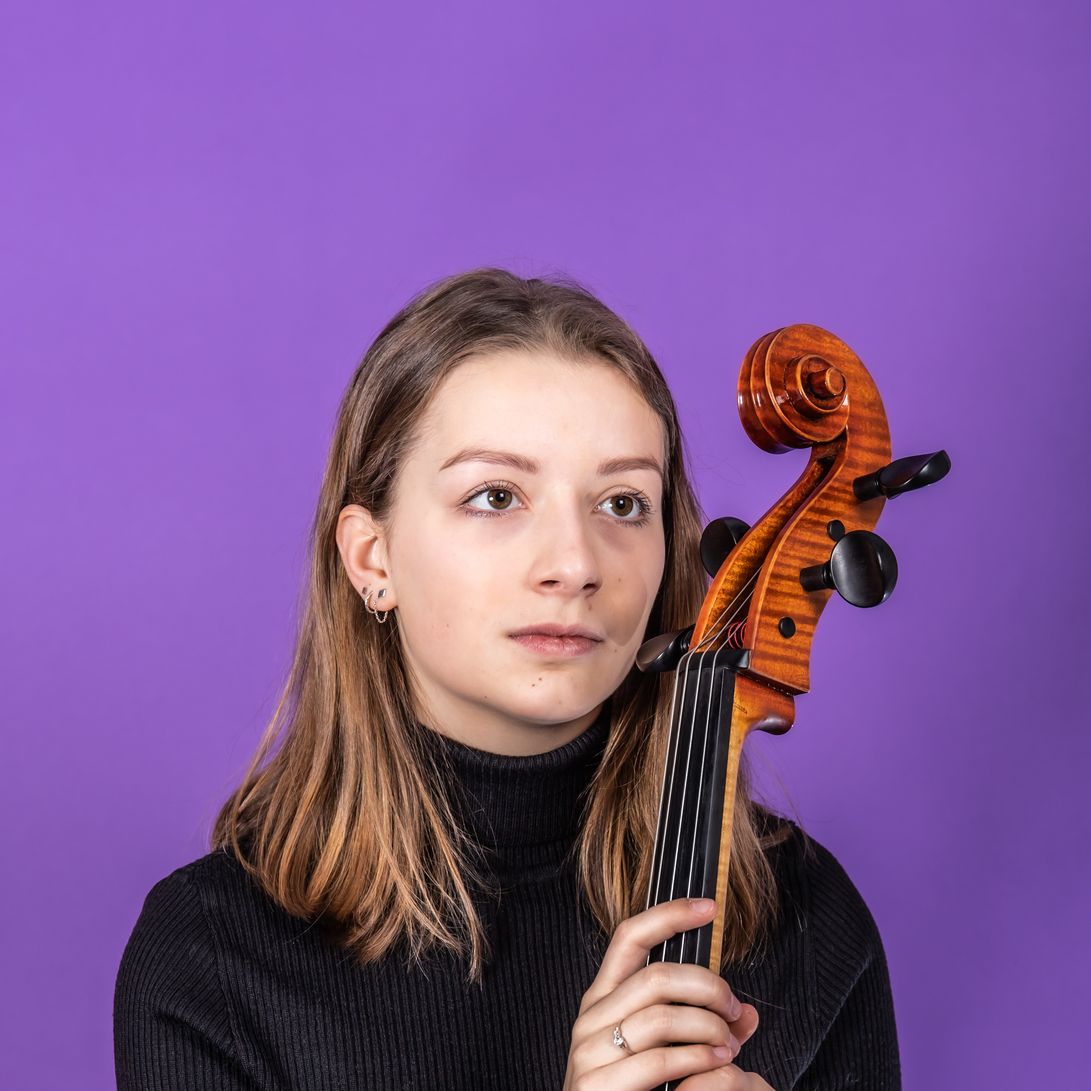
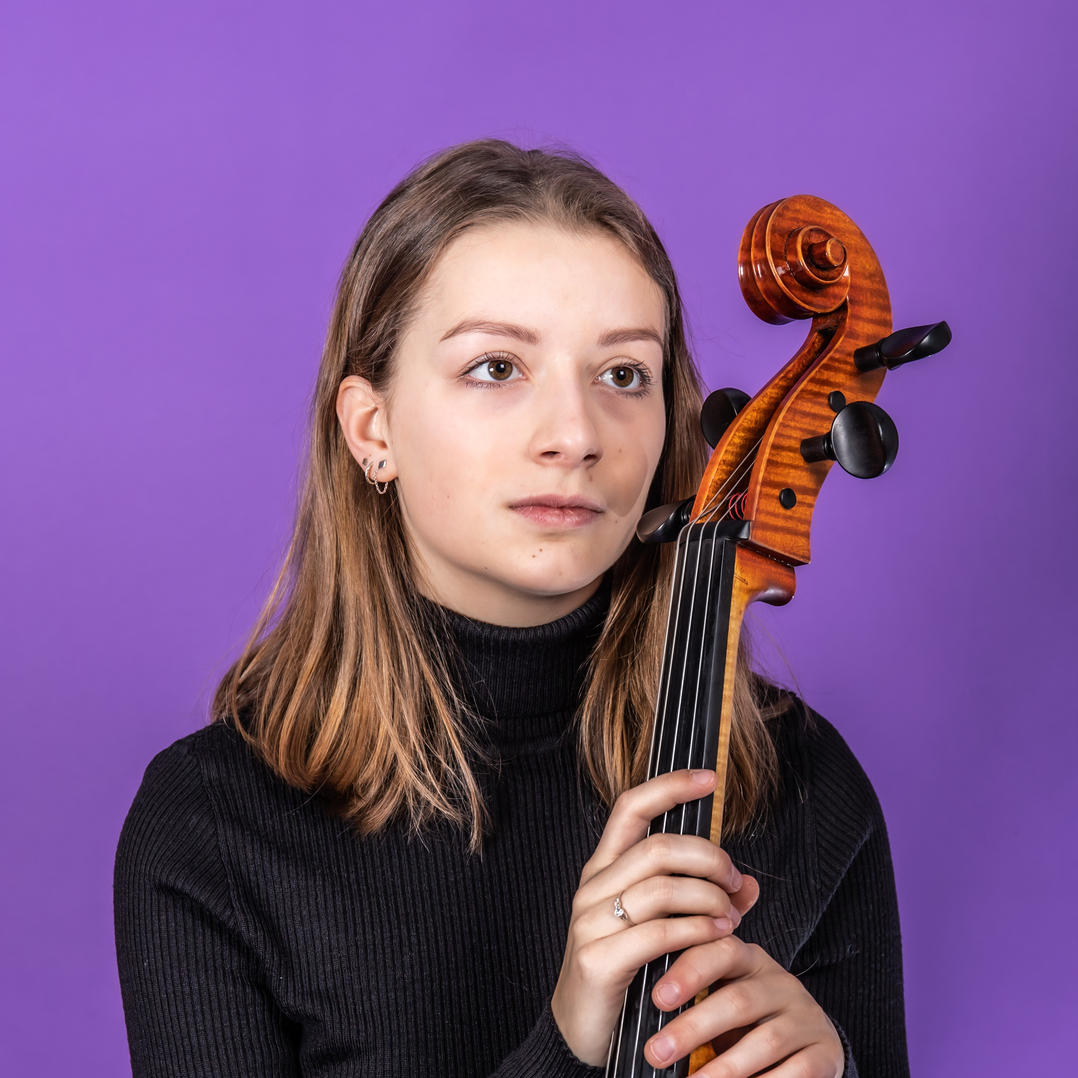
content aanpassing

diff --git a/index.html b/index.html
@@ -45,13 +45,13 @@
     <div class="d-flex flex-column">
 
       <div class="profile">
-        <img src="assets/img/profile-img.jpg" alt="" class="img-fluid rounded-circle">
+        <img src="assets/img/portfolio/Profielfoto.jpg" alt="" class="img-fluid rounded-circle">
         <h1 class="text-light"><a href="index.html">Nathalie Flintrop</a></h1>
         <div class="social-links mt-3 text-center">
-          <a href="#" class="twitter"><i class="bx bxl-twitter"></i></a>
-          <a href="#" class="facebook"><i class="bx bxl-facebook"></i></a>
-          <a href="#" class="instagram"><i class="bx bxl-instagram"></i></a>
-          <a href="#" class="google-plus"><i class="bx bxl-skype"></i></a>
+          <a href="https://twitter.com/nathalieflintro" class="twitter"><i class="bx bxl-twitter"></i></a>
+          <a href="http://www.facebook.com/nathalie.flintrop.3/" class="facebook"><i class="bx bxl-facebook"></i></a>
+          <a href="http://www.instagram.com/nathalieflintrop/" class="instagram"><i class="bx bxl-instagram"></i></a>
+          <a href="https://www.youtube.com/channel/UC6WH6PYZTQy8yj5JUGO_I9g" class="google-plus"><i class="bx bxl-skype"></i></a>
           <a href="#" class="linkedin"><i class="bx bxl-linkedin"></i></a>
         </div>
       </div>
@@ -76,7 +76,7 @@
   <section id="hero" class="d-flex flex-column justify-content-center align-items-center">
     <div class="hero-container" data-aos="fade-in">
       <h1>Nathalie Flintrop</h1>
-      <p>I'm <span class="typed" data-typed-items="Cellist, Teacher, Composer"></span></p>
+      <p>I'm a <span class="typed" data-typed-items="cellist, teacher, composer, musician"></span></p>
     </div>
   </section><!-- End Hero -->
 
@@ -88,15 +88,15 @@
 
         <div class="section-title">
           <h2>About</h2>
-          <p>Nathalie Flintrop is a young cellist that's currently studyig at the Conservatory of Amsterdam with teacher Mick Stirling. </p>
+          <p>Nathalie Flintrop is a young Belgian cellist that's currently studying at the Conservatory of Amsterdam with teacher Mick Stirling. </p>
         </div>
 
         <div class="row">
           <div class="col-lg-4" data-aos="fade-right">
-            <img src="assets/img/profile-img.jpg" class="img-fluid" alt="">
+            <img src="assets/img/portfolio/frontfoto.jpg" class="img-fluid" alt="">
           </div>
           <div class="col-lg-8 pt-4 pt-lg-0 content" data-aos="fade-left">
-            <h3>UI/UX Designer &amp; Web Developer.</h3>
+            <h3>Cellist &amp; Composer.</h3>
             <p class="font-italic">
               Lorem ipsum dolor sit amet, consectetur adipiscing elit, sed do eiusmod tempor incididunt ut labore et dolore
               magna aliqua.
@@ -104,24 +104,22 @@
             <div class="row">
               <div class="col-lg-6">
                 <ul>
-                  <li><i class="icofont-rounded-right"></i> <strong>Birthday:</strong> 1 May 1995</li>
+                  <li><i class="icofont-rounded-right"></i> <strong>Birthday:</strong> 8 May 2000</li>
                   <li><i class="icofont-rounded-right"></i> <strong>Website:</strong> www.example.com</li>
-                  <li><i class="icofont-rounded-right"></i> <strong>Phone:</strong> +123 456 7890</li>
-                  <li><i class="icofont-rounded-right"></i> <strong>City:</strong> City : New York, USA</li>
+                  <li><i class="icofont-rounded-right"></i> <strong>Phone:</strong> +31 639 83 06 34</li>
+                  <li><i class="icofont-rounded-right"></i> <strong>City:</strong> Amsterdam, The Netherlands </li>
                 </ul>
               </div>
               <div class="col-lg-6">
                 <ul>
-                  <li><i class="icofont-rounded-right"></i> <strong>Age:</strong> 30</li>
-                  <li><i class="icofont-rounded-right"></i> <strong>Degree:</strong> Master</li>
-                  <li><i class="icofont-rounded-right"></i> <strong>PhEmailone:</strong> email@example.com</li>
-                  <li><i class="icofont-rounded-right"></i> <strong>Freelance:</strong> Available</li>
+                  <li><i class="icofont-rounded-right"></i> <strong>Age:</strong> 20</li>
+                  <li><i class="icofont-rounded-right"></i> <strong>Degree:</strong> Bachelor</li>
+                  <li><i class="icofont-rounded-right"></i> <strong>Email:</strong> nathalie.flintrop@hotmail.be</li>
                 </ul>
               </div>
             </div>
             <p>
-              Officiis eligendi itaque labore et dolorum mollitia officiis optio vero. Quisquam sunt adipisci omnis et ut. Nulla accusantium dolor incidunt officia tempore. Et eius omnis.
-              Cupiditate ut dicta maxime officiis quidem quia. Sed et consectetur qui quia repellendus itaque neque. Aliquid amet quidem ut quaerat cupiditate. Ab et eum qui repellendus omnis culpa magni laudantium dolores.
+              Thanks to the Dutch National Music Instrument Foundation (NMF), Nathalie is currently playing a modern cello (2014) by Gudrun Kremeier.
             </p>
           </div>
         </div>
@@ -254,58 +252,93 @@
 
         <div class="row">
           <div class="col-lg-6" data-aos="fade-up">
-            <h3 class="resume-title">Sumary</h3>
+            <h3 class="resume-title">Summary</h3>
             <div class="resume-item pb-0">
               <h4>Nathalie Flintrop</h4>
-              <p><em>Innovative and deadline-driven Graphic Designer with 3+ years of experience designing and developing user-centered digital/print marketing material from initial concept to final, polished deliverable.</em></p>
+              <p><em>Passionate cellist with a big interest for music theory and composition.</em></p>
               <ul>
-                <li>Portland par 127,Orlando, FL</li>
-                <li>(123) 456-7891</li>
-                <li>alice.barkley@example.com</li>
+                <li>Amsterdam, NL</li>
+                <li>+316 39 83 06 34</li>
+                <li>nathalie.flintrop@hotmail.be</li>
               </ul>
             </div>
 
             <h3 class="resume-title">Education</h3>
             <div class="resume-item">
-              <h4>Master of Fine Arts &amp; Graphic Design</h4>
-              <h5>2015 - 2016</h5>
-              <p><em>Rochester Institute of Technology, Rochester, NY</em></p>
-              <p>Qui deserunt veniam. Et sed aliquam labore tempore sed quisquam iusto autem sit. Ea vero voluptatum qui ut dignissimos deleniti nerada porti sand markend</p>
+              <h4>Bachelor of Music: cello</h4>
+              <h5>2018 - present</h5>
+              <p><em>Conservatorium van Amsterdam, Amsterdam, NL</em></p>
+              <p>Nathalie is currently stuying with Michael Stirling.</p>
             </div>
             <div class="resume-item">
-              <h4>Bachelor of Fine Arts &amp; Graphic Design</h4>
-              <h5>2010 - 2014</h5>
-              <p><em>Rochester Institute of Technology, Rochester, NY</em></p>
-              <p>Quia nobis sequi est occaecati aut. Repudiandae et iusto quae reiciendis et quis Eius vel ratione eius unde vitae rerum voluptates asperiores voluptatem Earum molestiae consequatur neque etlon sader mart dila</p>
+              <h4>Preparatory years 'Young Conservatoire'</h4>
+              <h5>2016 - 2018</h5>
+              <p><em>Royal Conservatoire Antwerp, BE</em></p>
+              <ul>
+                  <li>Chamber music with Nicolas Callot, Wietse Beels en Annelien Van Wauwe. </li>
+                  <li>Music theory with Edwig Abrath. </li>
             </div>
           </div>
           <div class="col-lg-6" data-aos="fade-up" data-aos-delay="100">
-            <h3 class="resume-title">Professional Experience</h3>
+            <h3 class="resume-title">Orchestra Experience</h3>
             <div class="resume-item">
-              <h4>Senior graphic design specialist</h4>
-              <h5>2019 - Present</h5>
-              <p><em>Experion, New York, NY </em></p>
-              <ul>
-                <li>Lead in the design, development, and implementation of the graphic, layout, and production communication materials</li>
-                <li>Delegate tasks to the 7 members of the design team and provide counsel on all aspects of the project. </li>
-                <li>Supervise the assessment of all graphic materials in order to ensure quality and accuracy of the design</li>
-                <li>Oversee the efficient use of production project budgets ranging from $2,000 - $25,000</li>
-              </ul>
+              <h4>Dutch National Youth Orchestra (NJO)</h4>
+              <h5>Member since 2020</h5>
+              <p> All tours and projects until now have been cancelled due to COVID-19. </p>
             </div>
             <div class="resume-item">
-              <h4>Graphic design specialist</h4>
-              <h5>2017 - 2018</h5>
-              <p><em>Stepping Stone Advertising, New York, NY</em></p>
+              <h4>Euregio Youth Orchestra</h4>
+              <h5>2015 - 2019</h5>
+              <p><em>Tilburg, NL</em></p>
+              <p><em>Conductor: Hans Casteleyn</em></p>
               <ul>
-                <li>Developed numerous marketing programs (logos, brochures,infographics, presentations, and advertisements).</li>
-                <li>Managed up to 5 projects or tasks at a given time while under pressure</li>
-                <li>Recommended and consulted with clients on the most appropriate graphic design</li>
-                <li>Created 4+ design presentations and proposals a month for clients and account managers</li>
+                <li>Winner of the Dutch National Concours for Youth Symphony Orchestras of 2018</li>
+                <li>Principal cellist</li>
               </ul>
             </div>
           </div>
         </div>
-
+        <div class="col-lg-6" data-aos="fade-up" data-aos-delay="100">
+          <h3 class="resume-title">Projects</h3>
+          <div class="resume-item">
+            <h4>DeZes/LesSix</h4>
+            <h5>May and June, 2017</h5>
+            <p> DeZes/LesSix is a youth panel of the VRT (Flemish Broadcasting of Radio and Television) that exists of six young musicians that follow the Queen Elisabeth Competition from up close and report about it on every possible social media, radio and tv. Their goal is to make classical music more populair with the younger audience.   </p>
+            <ul>
+              <li>Van Gils en Gasten, Iedereen Beroemd, Klara live</li>
+              <li>opnames filmpjes (nog kleine titel toevoegen: ervaringen)</li>
+            </ul>
+          </div>
+          <div class="resume-item">
+            <h4>Noordwijk Chamber Music Festival</h4>
+            <h5>2022</h5>
+            <p><em>Noordwijk, NL</em></p>
+            <p><em>With Duleen van Gunsteren, Kerttu Keinänen and Laura Soeters.</em></p>
+            <ul>
+              <li>Head of communication</li>
+            </ul>
+      </div>
+          <div class="col-lg-6" data-aos="fade-up" data-aos-delay="100">
+            <h3 class="resume-title">Solo Experience</h3>
+            <div class="resume-item">
+              <h4>Vivarte</h4>
+              <h5>May and June, 2017</h5>
+              <p> DeZes/LesSix is a youth panel of the VRT (Flemish Broadcasting of Radio and Television) that exists of six young musicians that follow the Queen Elisabeth Competition from up close and report about it on every possible social media, radio and tv. Their goal is to make classical music more populair with the younger audience.   </p>
+              <ul>
+                <li>Van Gils en Gasten, Iedereen Beroemd, Klara live</li>
+                <li>opnames filmpjes (nog kleine titel toevoegen: ervaringen)</li>
+              </ul>
+            </div>
+            <div class="resume-item">
+              <h4>Arenberg Orchestra Leuven</h4>
+              <h5>2022</h5>
+              <p><em>Noordwijk, NL</em></p>
+              <p><em>With Duleen van Gunsteren, Kerttu Keinänen and Laura Soeters.</em></p>
+              <ul>
+                <li>Head of communication</li>
+              </ul>
+            </div>
+        </div>
       </div>
     </section><!-- End Resume Section -->
 

diff --git a/assets/css/style.css b/assets/css/style.css
@@ -218,7 +218,7 @@ h1, h2, h3, h4, h5, h6 {
 #hero {
   width: 100%;
   height: 100vh;
-  background: url("../img/portfolio/MelleMeivogel_NathalieFlintrop_highres-3.jpg") top center;
+  background: url("../img/portfolio/achtergrond.jpg") top center;
   background-size: cover;
 }
 
